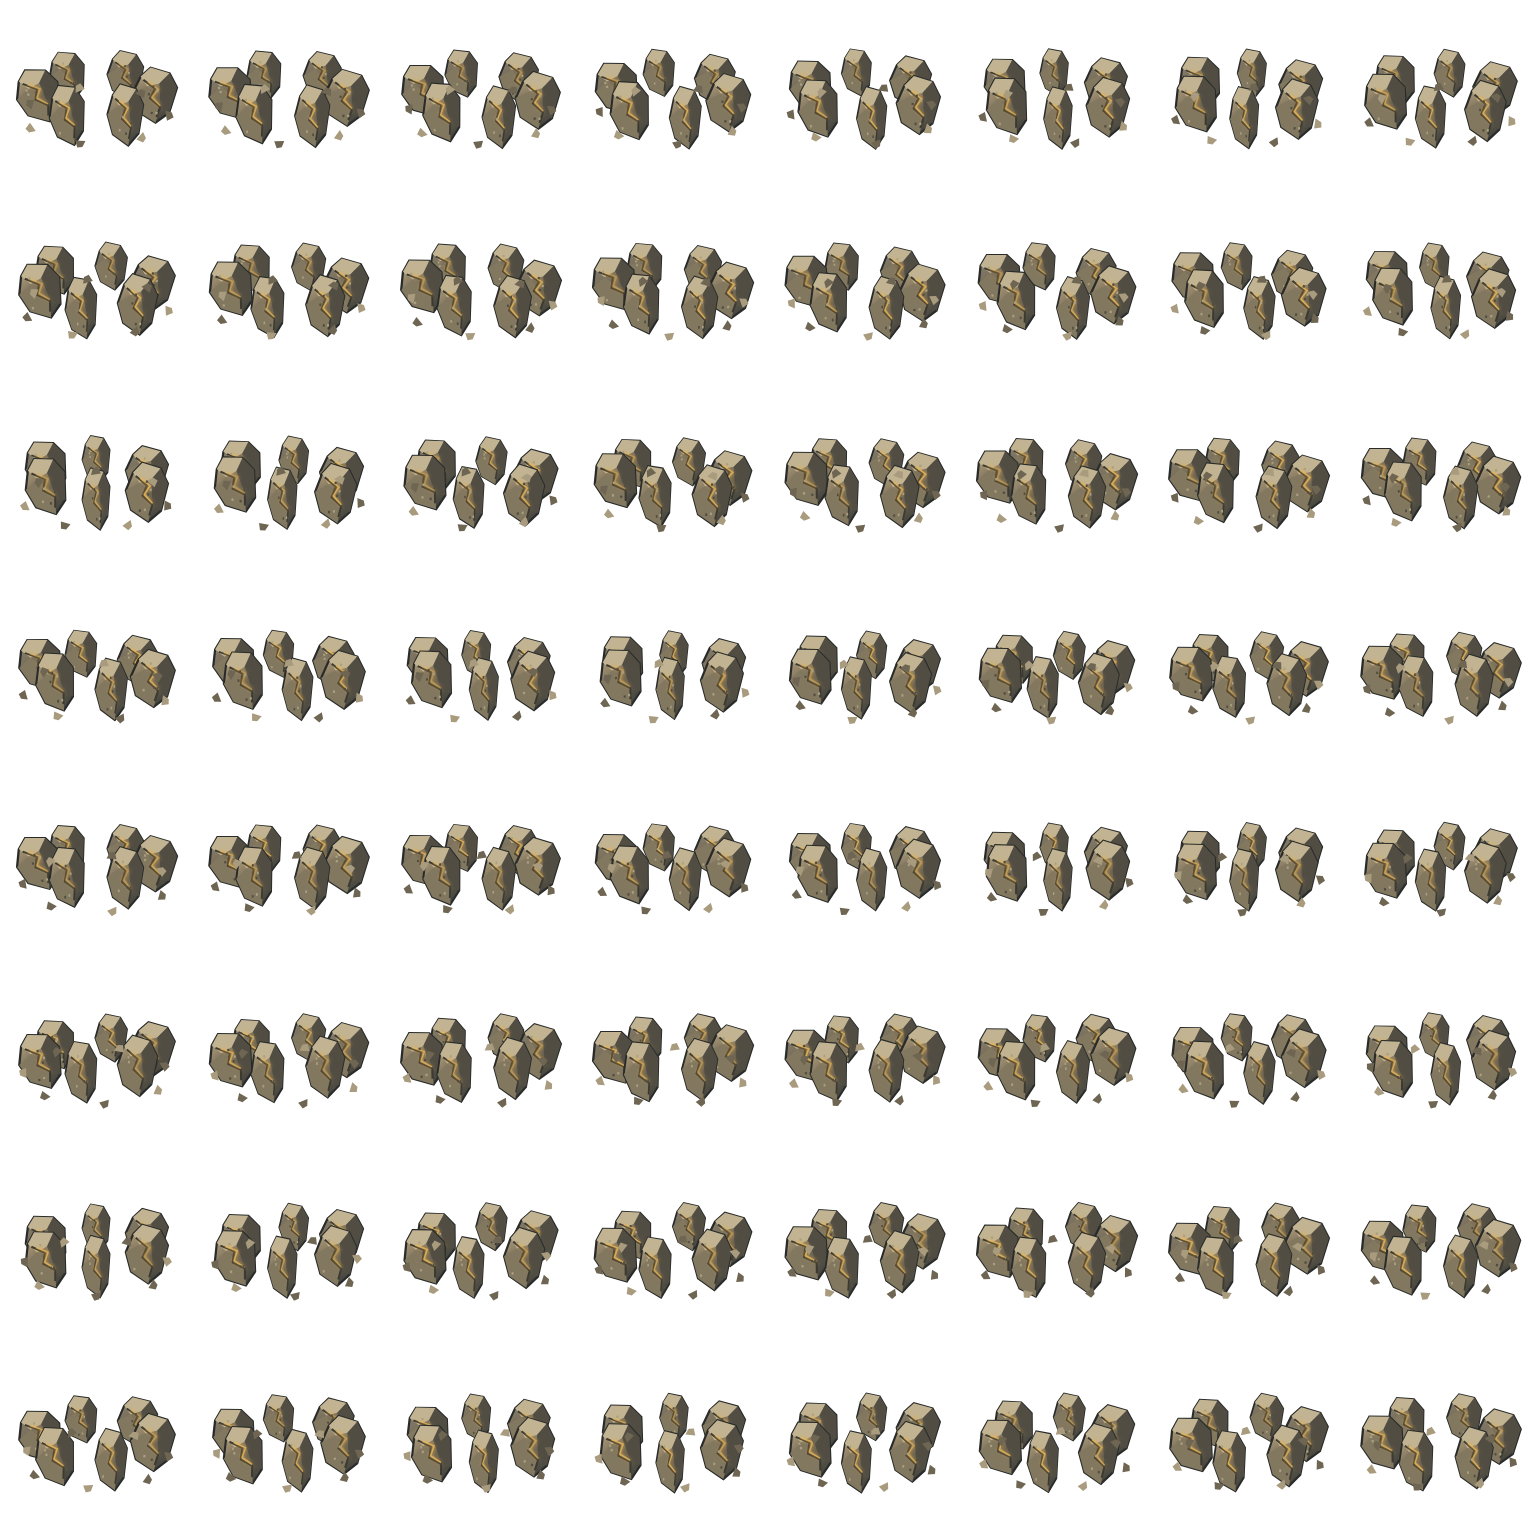
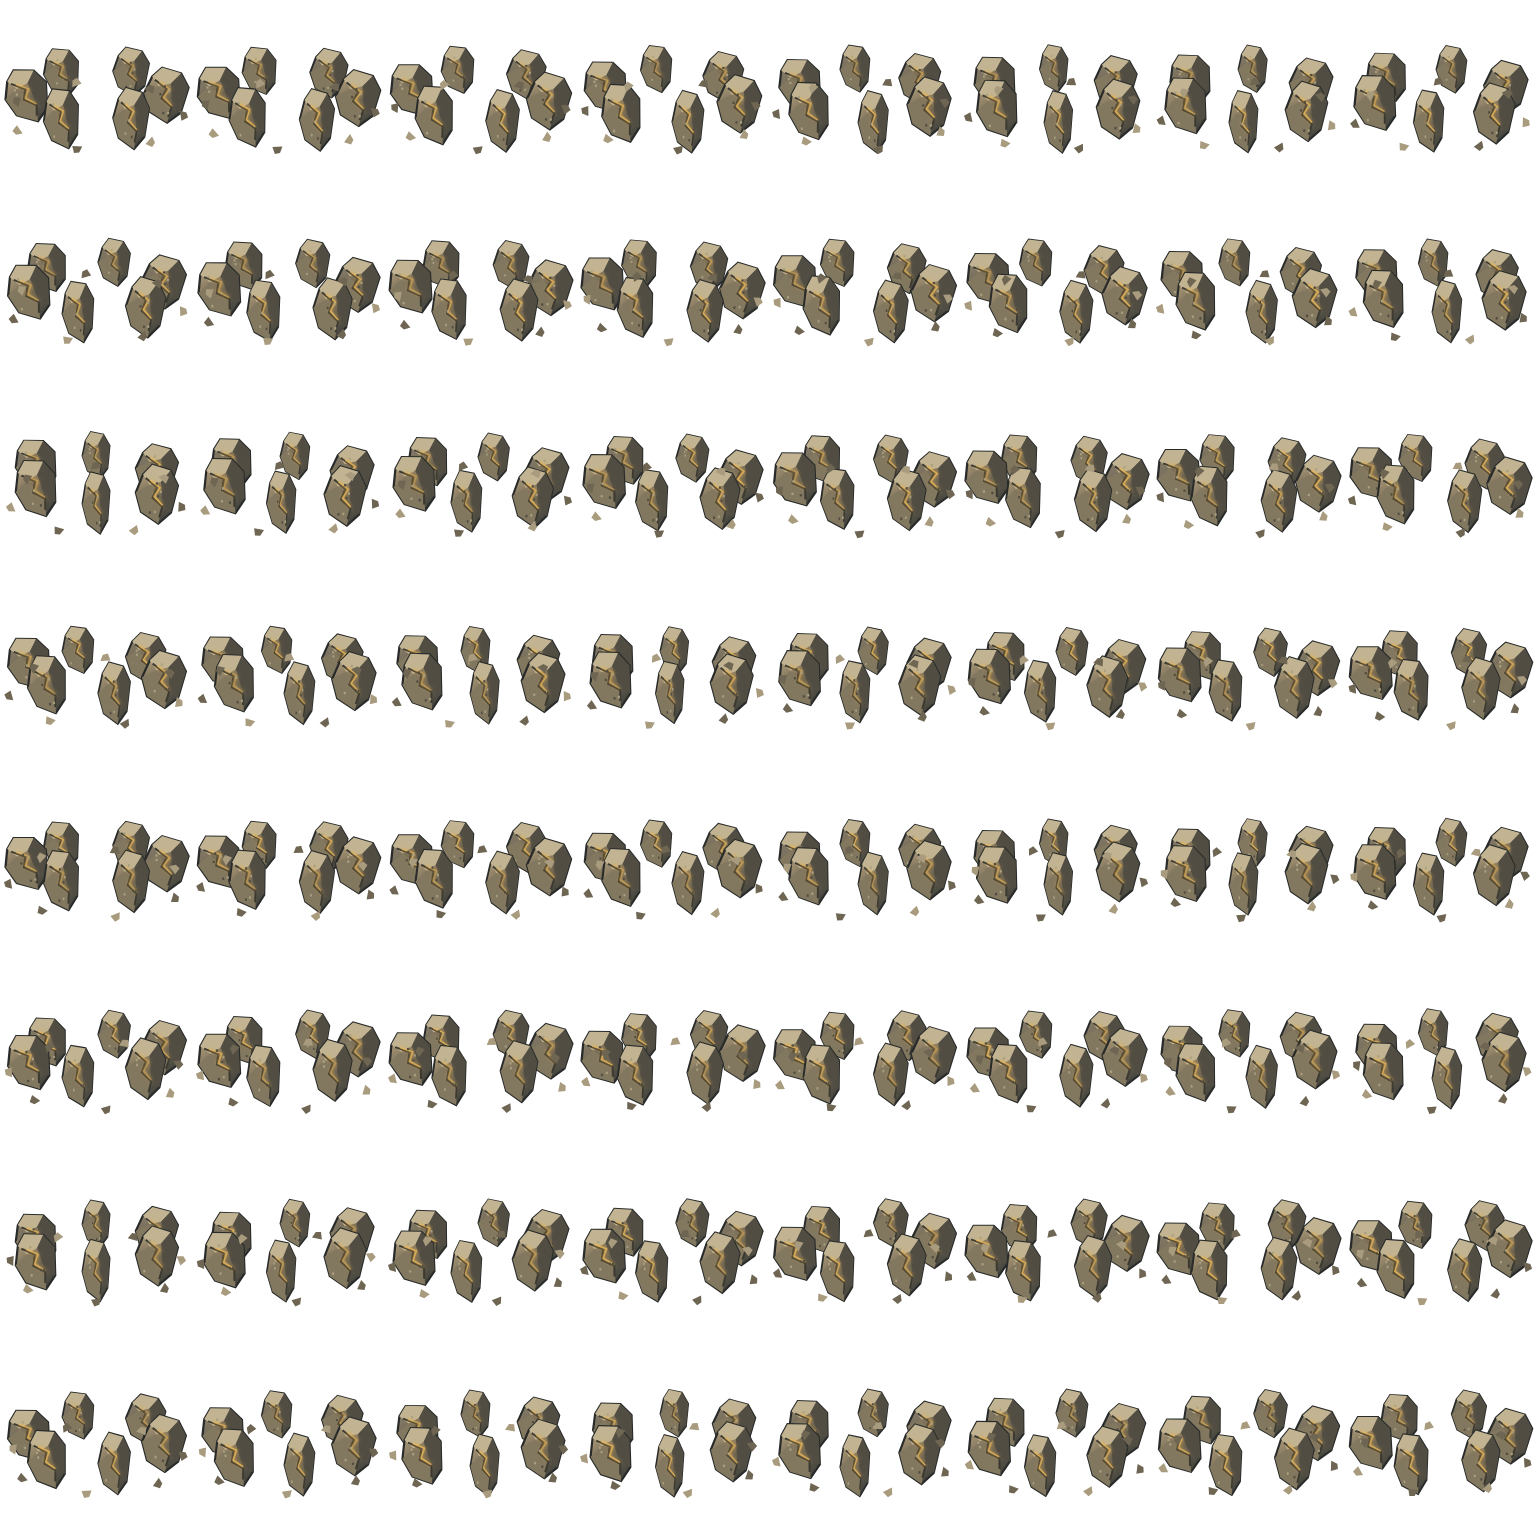
[Codex] fix: 岩甲環繞半徑增加百分之二十

diff --git a/docs/AI_TASKS.md b/docs/AI_TASKS.md
@@ -2,6 +2,8 @@
 
 ## Codex｜岩甲術預覽（VFX-ROCKARMOR-20260910）
 
+- 環繞修訂：甲片與碎石的橢圓軌道雙軸半徑增加 20%，甲片尺寸保持不變；重新烘焙共享圖集、同步素材雜湊，語法及瀏覽器預覽確認通過。
+
 - 外觀修訂：依使用者要求將甲片圖集縮放 0.6→0.27，中心下移至腳底上方 13.5px，完整岩甲高度約人物一半；地面微光與塵土同步縮小。Preset 驗證與 author 語法檢查通過，瀏覽器比例確認。
 
 - In Progress：基礎自身護盾製作碎岩甲片、暗金裂縫與少量塵土；新增 author、動畫素材、獨立 preset/layout 與動態預覽。沿用現有 Runtime，禁止改技能數值與既有共用 aura-rock-armor 接線。前置依賴已滿足，衝突預檢乾淨。驗收格式／素材、實際動態與 build；交由使用者確認外觀後接入。
